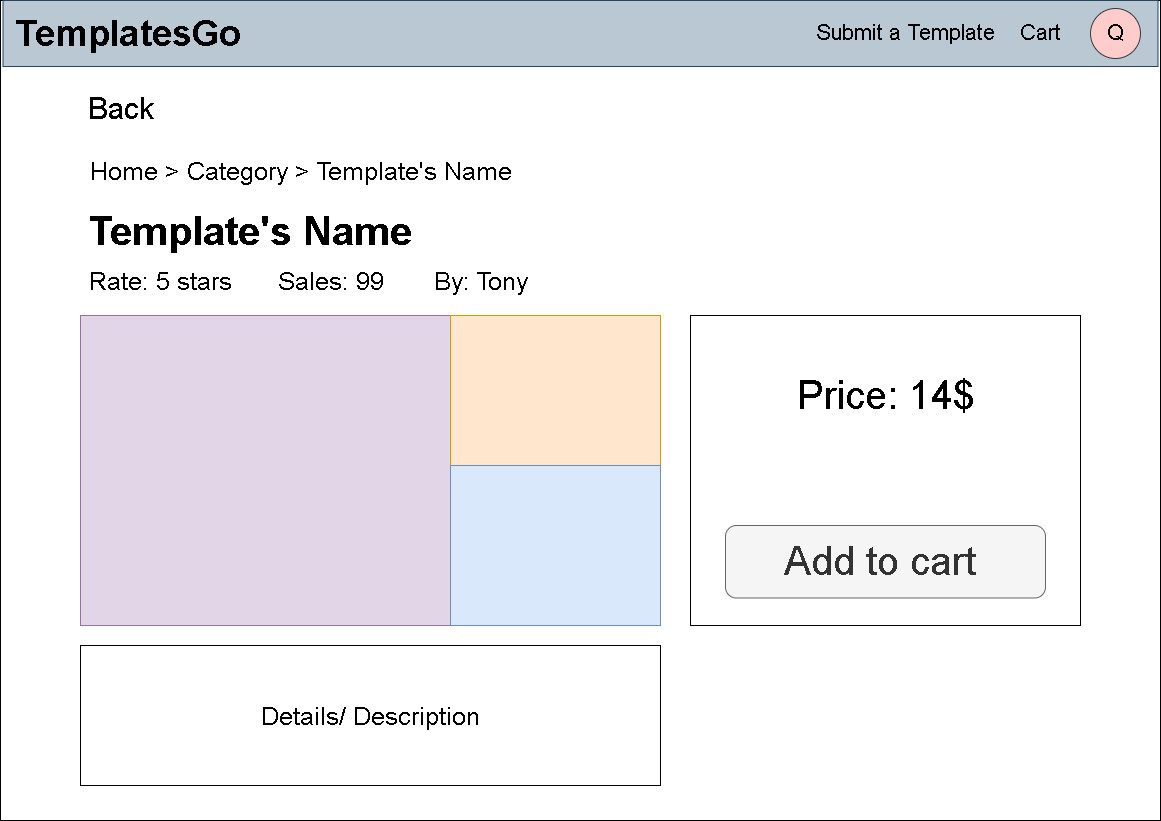
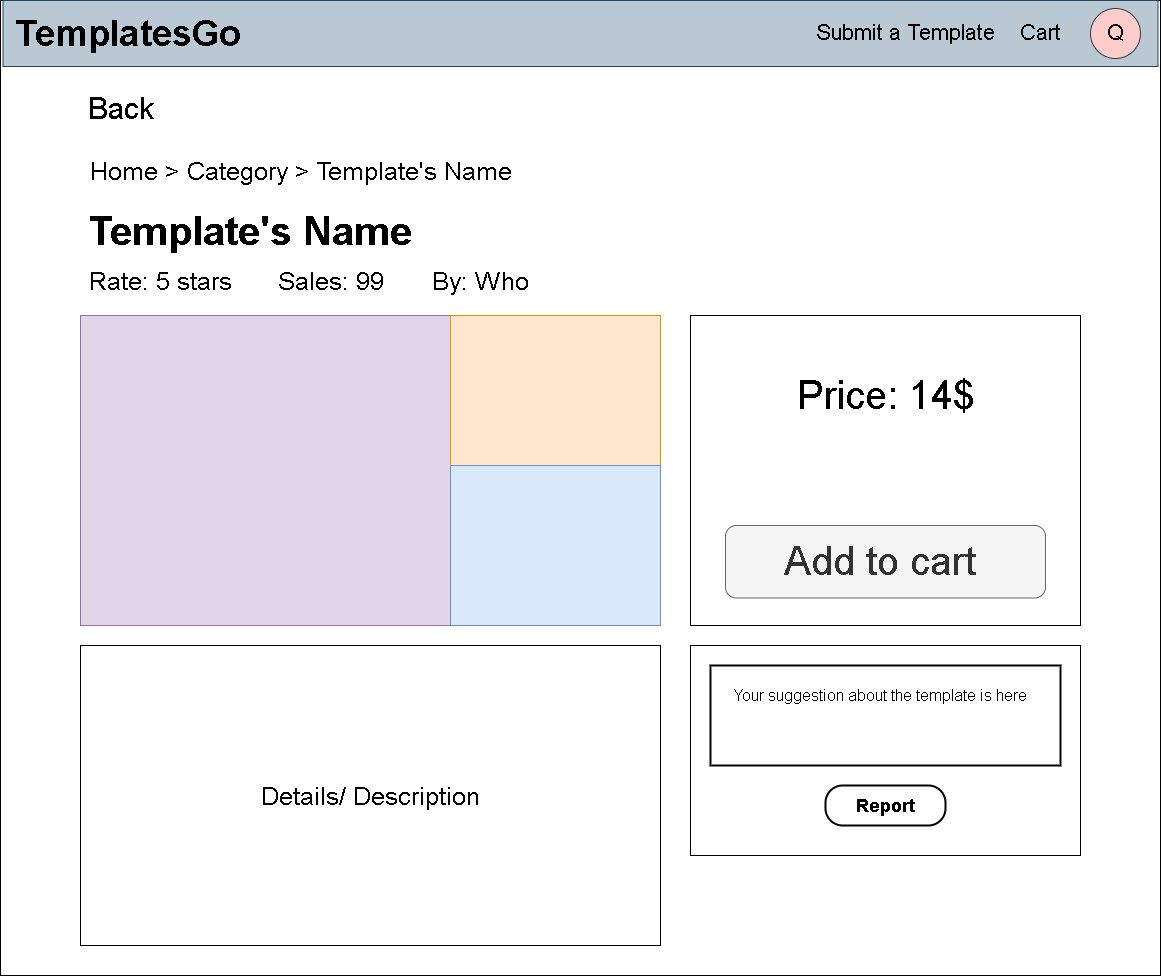
Update readme, sitemap, and wireframes

diff --git a/README.md b/README.md
@@ -1,9 +1,15 @@
-# TemplatesGo
-## _Hassle-free Buying & Selling of High Quality Templates_
+# **TemplatesGo**
+## Hassle-free Buying & Selling of High Quality Templates
 TemplatesGo aims to provides an online marketplace with sleek interface for developers to quickly and easily buy and sell their website templates, connecting developers who is looking for a platform to sell their website templates online and developers who are looking to buy high quality templates for their projects or works.
 
+## Team
+- Quách Hêng Tô Ni (SE160076)
+- Phạm Trọng Thành (SE160037)
+- Huỳnh Minh Trung (SE151480)
+- Phan Nhật Hoàng (SE150781)
+
 ## Users
-Developers, designers, freelancers, etc.
+Developers, designers, freelancers, and others in technology-related fields.
 
 ## Features
 - Create accounts.
@@ -29,8 +35,11 @@ Developers, designers, freelancers, etc.
 
 ## Wireframes
 
-##### Account page:
-![TemplatesGo Account](/assets/wireframes/TemplatesGo_Account.png)
+##### Home page:
+![TemplatesGo Home](/assets/wireframes/TemplatesGo_Home.png)
+
+##### Template details page:
+![TemplatesGo Template Details](/assets/wireframes/TemplatesGo_TemplateDetails.jpg)
 
 ##### Cart page:
 ![TemplatesGo Cart](/assets/wireframes/TemplatesGo_Cart.png)
@@ -38,26 +47,26 @@ Developers, designers, freelancers, etc.
 ##### Checkout page:
 ![TemplatesGo Checkout](/assets/wireframes/TemplatesGo_Checkout.png)
 
+##### Seller dashboard page (seller only):
+![TemplatesGo Seller Dashboard](/assets/wireframes/TemplatesGo_SellerDashboard.jpg)
+
 ##### Submit template page (seller only):
 ![TemplatesGo Submit Template](/assets/wireframes/TemplatesGo_SubmitTemplate.png)
 
-##### Home page:
-![TemplatesGo Home](/assets/wireframes/TemplatesGo_Home.png)
+##### Account list page (admin only):
+![TemplatesGo Admin Dashboard](/assets/wireframes/TemplatesGo_AccountList.jpg)
+
+##### Review report page (admin only):
+![TemplatesGo Admin Dashboard](/assets/wireframes/TemplatesGo_ReviewReport.jpg)
+
+##### Account page:
+![TemplatesGo Account](/assets/wireframes/TemplatesGo_Account.png)
 
 ##### Login page:
 ![TemplatesGo Login](/assets/wireframes/TemplatesGo_Login.jpg)
 
 ##### Register page:
 ![TemplatesGo Register](/assets/wireframes/TemplatesGo_Register.png)
-
-##### Seller dashboard page (seller only):
-![TemplatesGo Seller Dashboard](/assets/wireframes/TemplatesGo_SellerDashboard.jpg)
-
-##### Admin dashboard page (admin only):
-![TemplatesGo Admin Dashboard](/assets/wireframes/TemplatesGo_AdminDashboard.png)
-
-##### Template details page:
-![TemplatesGo Template Details](/assets/wireframes/TemplatesGo_TemplateDetails.jpg)
 
 ## License
 MIT
